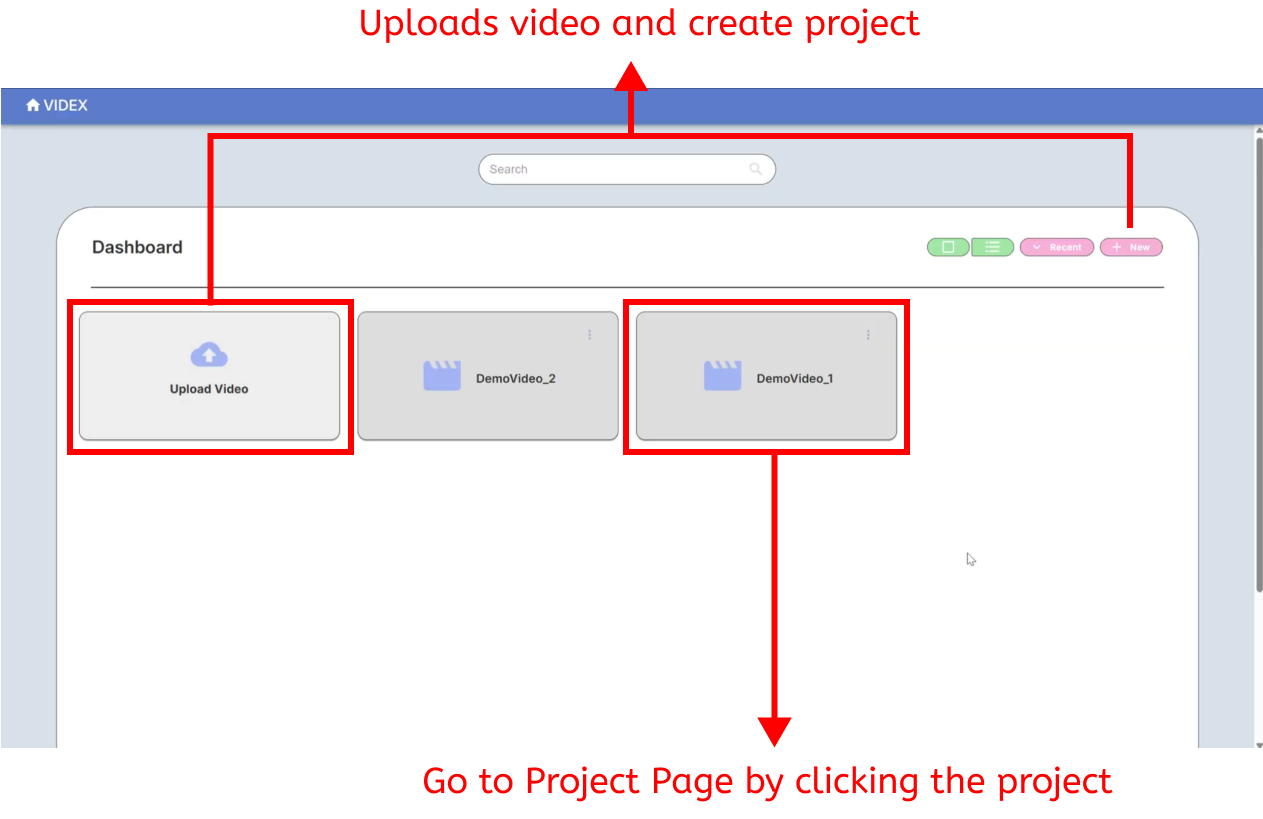
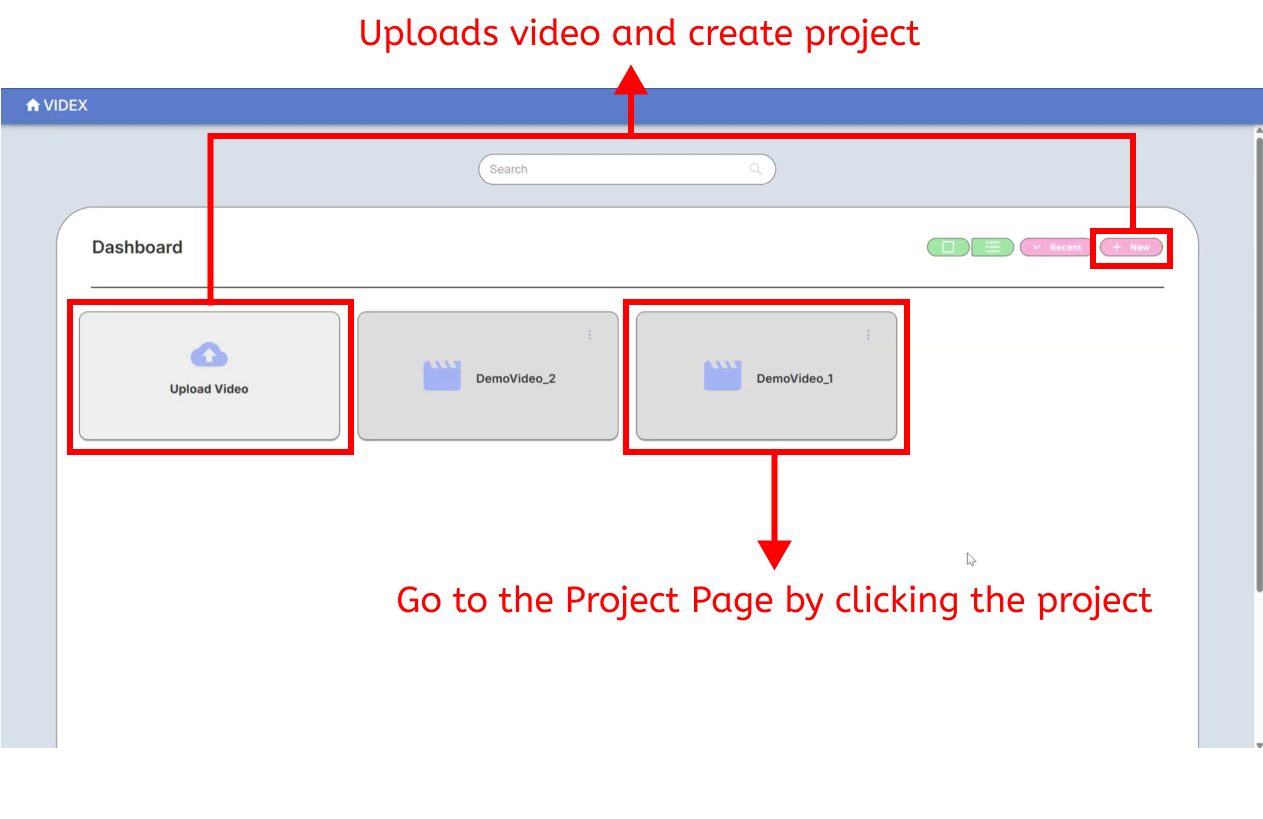
Add files via upload

diff --git a/README.md b/README.md
@@ -1,8 +1,12 @@
-# 📸 VIDEX
+# VIDEX
+
+<img src="images/Title.png" />
+
+<br/>
 
 **VIDEX** is a **semantic video indexing** system that converts **surveillance footage** into searchable segments through integrated **object detection**, **open-vocabulary expansion**, and **retrieval-enhanced scene captioning**. The system enables **rapid natural-language retrieval** of incident-relevant scenes and **reduces analytical workload** through **scalable distributed inference**.<br/><br/>
 
-## 🗝 Key word
+## Key word
 
 - Semantic video indexing
 - Natural-language video retrieval
@@ -11,36 +15,41 @@
 
 
 
-# 📹 Demo Video
+# Demo Video
 
 Demo video is avaiable in [YouTube](https://youtu.be/5DjljvfGSZQ)
 <br/><br/><br/>
 
 
-# 🪄 Interface
+# Interface
 
 The frontend of VIDEX offers user-friendly interface so that user can easily explore the result of analysis. Here are more detailed descroption about interface and how to use them.<br/><br/>
   
   
-## 🏠 Home Page
+## Home Page
 
 <img src="images/Home_1.png" width="500" />
 
+- Create new project by **Upload video buttom** or **New buttom**
+- Go to **Project Page** by clicking a project <br/><br/>
+
 <img src="images/Home_2.png" width="500" />
 
-- Create project by uploading video which want to analyze
-    - Set project name and crop the video in upload modal
-- Sort the project
-- Search the project names
-- Delete created projects<br/><br/>
+- Uploads video in **New Projects modal** <br/><br/>
+
+
+<img src="images/Home_3.png" width="500" />
+
+- Set project name and crop the video
+- Confirm create new project <br/><br/>
   
   
-## 📁 Project Page
+## Project Page
 
 <img src="images/Project_1.png" width="500" />
 
 - **Video Player**
-    - Video w/ Yolo&OWL-ViT Object Detection Bounding Box
+    - Video with Yolo&OWL-ViT Object Detection Bounding Box
     - Play/Pause, Fast Forward, Volume Control, Full Screen
 - **Anomaly Score Graph**
     - Show **LOF score** computed by video segment embedding
@@ -59,3 +68,70 @@ The frontend of VIDEX offers user-friendly interface so that user can easily exp
     - Show the result of object detection with thumbnail and correcponding timestamp
     - Filter the result by toggling chips or select and setting confidence threshold<br/><br/>
   
+# Quick Start 
+
+## 1. Prerequisites
+
+To run VIDEX, you need:
+
+-   Docker
+-   Docker Compose (included in Docker Desktop on some systems)
+-   NVIDIA GPU + NVIDIA Driver + NVIDIA Container Toolkit
+-   [Milvus DB Settings](https://milvus.io/docs/overview.md)
+
+## 2. Clone the repository
+
+```bash
+git clone https://github.com/nth221/videx-d
+cd videx-d
+```
+
+## 3. Configure environment
+
+open docker-compose.yml file, change <SERVER_IP> to your server ip
+
+## 4. Pull images and build services
+
+```bash
+# Pull the latest core image from Docker Hub
+docker compose pull
+
+# Build frontend and start all services
+docker compose up -d --build
+```
+
+## 5. Check container status
+
+```
+docker ps
+```
+
+You should see the following containers in Up state:
+
+-   videx-frontend
+-   videx-backend
+-   videx-yolo-api
+-   videx-vivit-api
+-   videx-vlm-api
+-   videx-tte-api
+
+## 6. Access the web interface
+
+```
+http://<SERVER_IP>:5173
+```
+
+## 7. Stopping and restarting the stack
+
+To stop all services:
+
+```bash
+docker compose down
+```
+
+To restart after code or configuration changes:
+
+```bash
+docker compose pull             # if the core image was updated
+docker compose up -d --build
+```
